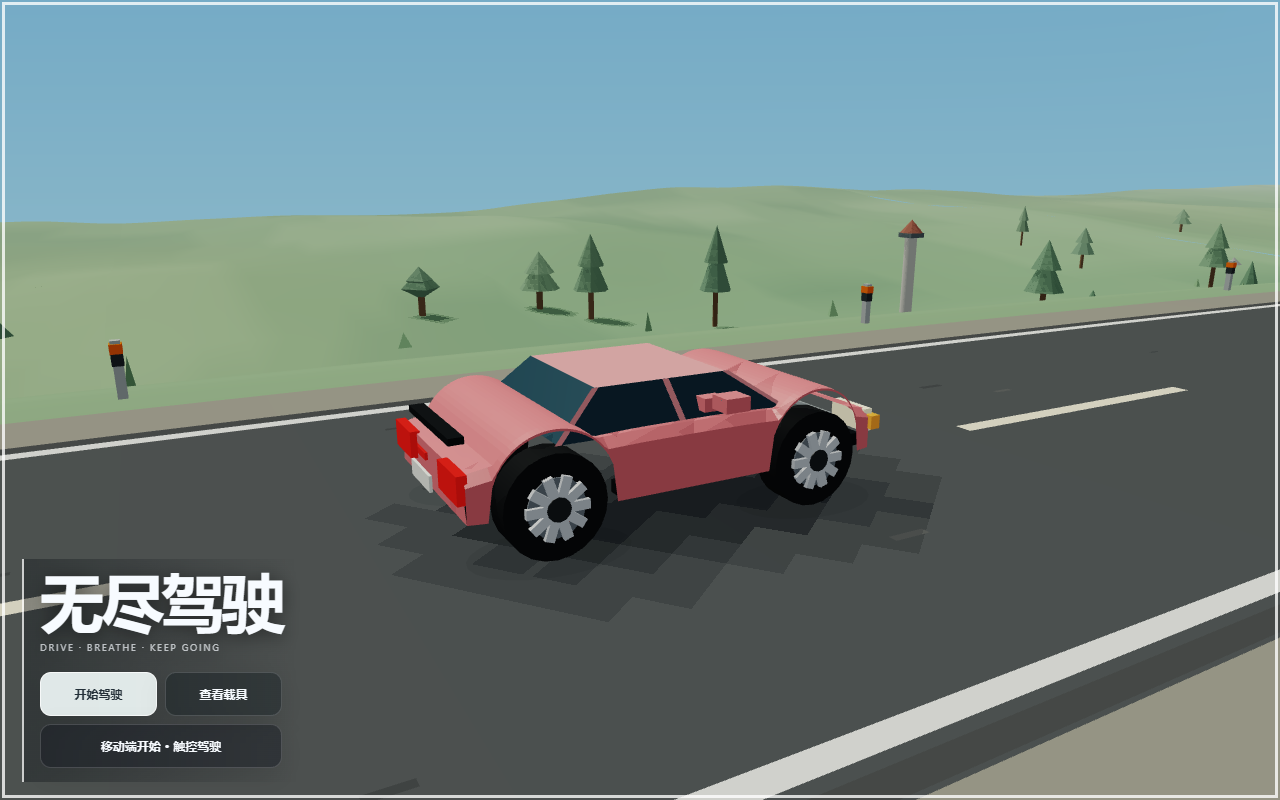
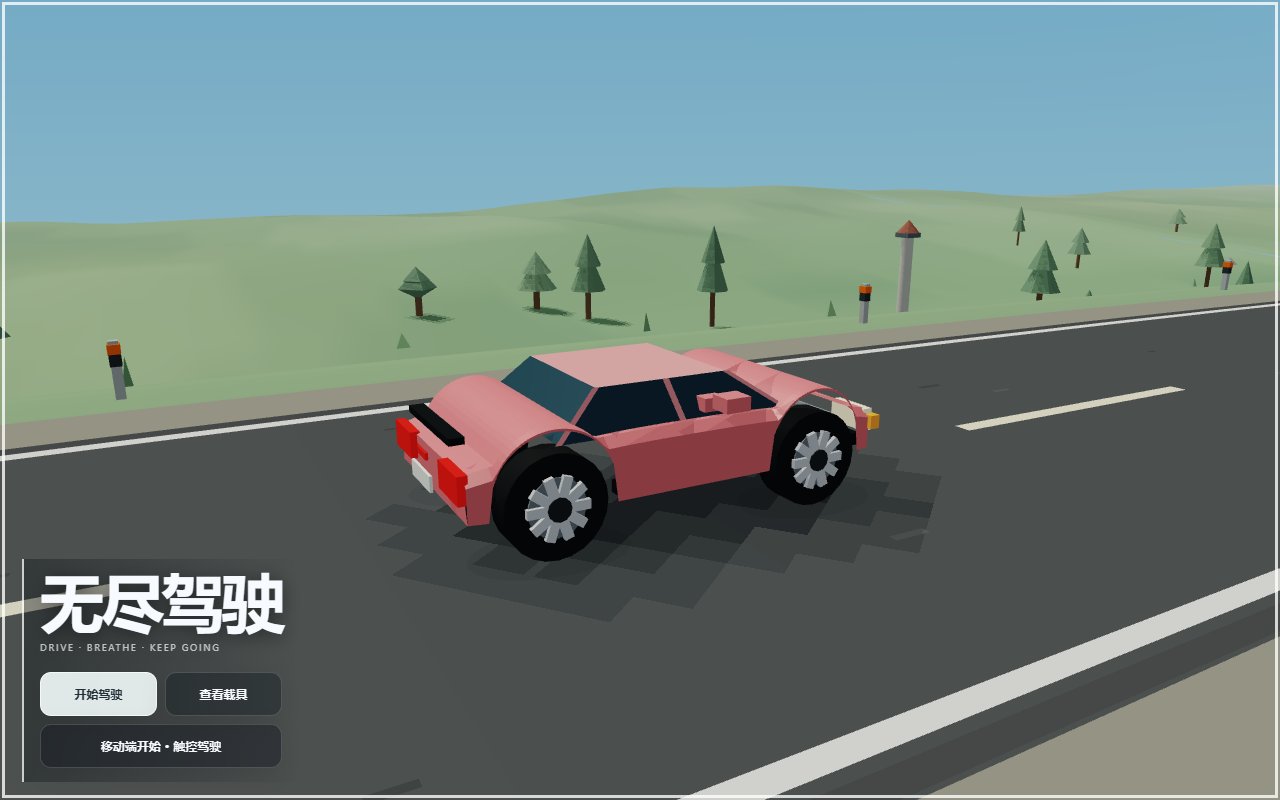
Plan terrain-aware autopilot speeds before axle unloading

diff --git a/index.html b/index.html
@@ -2244,7 +2244,9 @@ class Autopilot{
     const settings=this.world.settings;
     const pace=1;
     const lateralAccel=3.0*clamp(settings.grip,.5,1.5)*(1-.28*clamp(this.world.rainAmount||0,0,1));
-    const brakeDecel=2.5; // Plan for the grip-preserving deceleration available inside a bend.
+    // The cornering controller may reserve grip by limiting brake input to .16.
+    // Plan below that deceleration, including downhill gravity, rather than promising 2.5 m/s².
+    const brakeDecel=1.4;
     const responseTime=.22,responseDistance=speed*pace*responseTime+10;
     const floorSpeed=24; // only used to size the horizon, not as a mandatory corner speed.
     const stoppingSpan=pace*Math.max(0,speed*speed-floorSpeed*floorSpeed)/(2*brakeDecel);
@@ -2252,10 +2254,20 @@ class Autopilot{
     const step=horizon>3000?32:horizon>1800?24:horizon>900?18:12;
     let cap=Infinity,bestDistance=Infinity,bestCurveSpeed=Infinity,bestCurvature=0;
     for(let d=0;d<=horizon;d+=(d===0?step:step)){
-      const q=this.roadFrame(s+this.routeDir*d),k=Math.abs(q.curvature);
-      if(k<.00018)continue;
+      const position=s+this.routeDir*d,q=this.roadFrame(position),k=Math.abs(q.curvature);
+      const before=this.roadFrame(position-this.routeDir*8),after=this.roadFrame(position+this.routeDir*8);
+      const slopeBefore=Math.atan2(before.ty*this.routeDir,Math.hypot(before.tx,before.tz));
+      const slopeAfter=Math.atan2(after.ty*this.routeDir,Math.hypot(after.tx,after.tz));
+      // Convex vertical curvature removes normal load: N/m = g - v²*kVertical.
+      // Keep at least 70% static support in the planned envelope; also limit sharp compressions.
+      const verticalCurvature=(slopeAfter-slopeBefore)/16;
+      const verticalCap=Math.sqrt((verticalCurvature<0?2.9:4.5)/Math.max(1e-7,Math.abs(verticalCurvature)));
+      // The lightweight suspension samples piecewise road heights; sustained slopes can
+      // unload axles at segment seams even when averaged vertical curvature is small.
+      const slope=Math.abs(Math.atan2(q.ty,Math.hypot(q.tx,q.tz)));
+      const slopeCap=lerp(83.33,30,smoothstep(.015,.055,slope));
       // Conservative curve speed leaves a reserve for braking and terrain load variation.
-      const curveSpeed=Math.sqrt(lateralAccel/Math.max(k,1e-6));
+      const curveSpeed=Math.min(Math.sqrt(lateralAccel/Math.max(k,1e-6)),verticalCap,slopeCap);
       const usableDistance=Math.max(0,d-responseDistance);
       const allowedNow=Math.sqrt(curveSpeed*curveSpeed+2*brakeDecel*usableDistance/pace);
       if(allowedNow<cap){cap=allowedNow;bestDistance=d;bestCurveSpeed=curveSpeed;bestCurvature=k;}

diff --git a/README.md b/README.md
@@ -246,9 +246,11 @@ screenshots/
 - 四轮弹簧支撑与重力驱动车身，坡顶允许离地。速度感增强仅影响镜头和视觉，不再放大位移速度。
 - 自动驾驶预测共用轮胎计算；预测仍假设平面支撑，不等同于完整悬挂预测。普通道路也会提前考虑弯道抓地上限。
 - 自动驾驶使用统一前视与转向不足补偿，弯中限制制动以保留侧向抓地；偏出道路后减速回归，不再沿用约 200 km/h 的旧恢复速度。
+- 起伏路段自动驾驶会按前方纵向曲率与坡度提前减速，以降低坡顶及路段接缝处的轮胎减载风险；制动预判采用更保守的 1.4 m/s²，而非假定弯中始终能达到 2.5 m/s²。坡度限速是对轻量悬挂的安全补偿，不是完整路面动力学预测，不改变手动驾驶限速。
 - 开发回归：`node tests/vehicle-check.cjs`。浏览器检查脚本 `tests/browser-check.cjs` 需要开发环境中的 Playwright 与 Edge；游戏本身不需要它们。测试文件和截图都不是运行依赖，发布仍只需要一个 HTML。
 - 本轮验证：基础受力、重刹转向、悬挂平衡、离地/落地、倒车恢复检查通过；本地无头 Edge 的种子 73129 干路及种子 42 湿路，四种车型各模拟 60 秒（8 组），最大中心偏移 2.18 m，小于测试安全边界 2.32 m，未捕获脚本异常。这不覆盖所有种子、极端参数、移动设备或主观驾驶体验。
 - 移动回归：`tests/mobile-check.cjs` 检查识别失效时的手动入口、竖屏尺寸、选择持久化、双指油门+转向、独立松开/取消及菜单与踏板重叠处的点击层级。使用 Edge 触控模拟，不代表实际手机或所有内置浏览器验收。
+- 自动驾驶冲出道路回归：`tests/autopilot-terrain.cjs` 覆盖种子 1、2、3、42、73129，默认车型各模拟 240 秒，使用 60 Hz 控制与实际物理子步、浮动原点，禁止靠重置通过。修复后五组均通过，最大中心偏移 2.01 m；包含此前 Seed 2 约 48 秒、Seed 3 约 186 秒失控的场景。仍不覆盖所有种子或极端配置。
 
 ---
 
